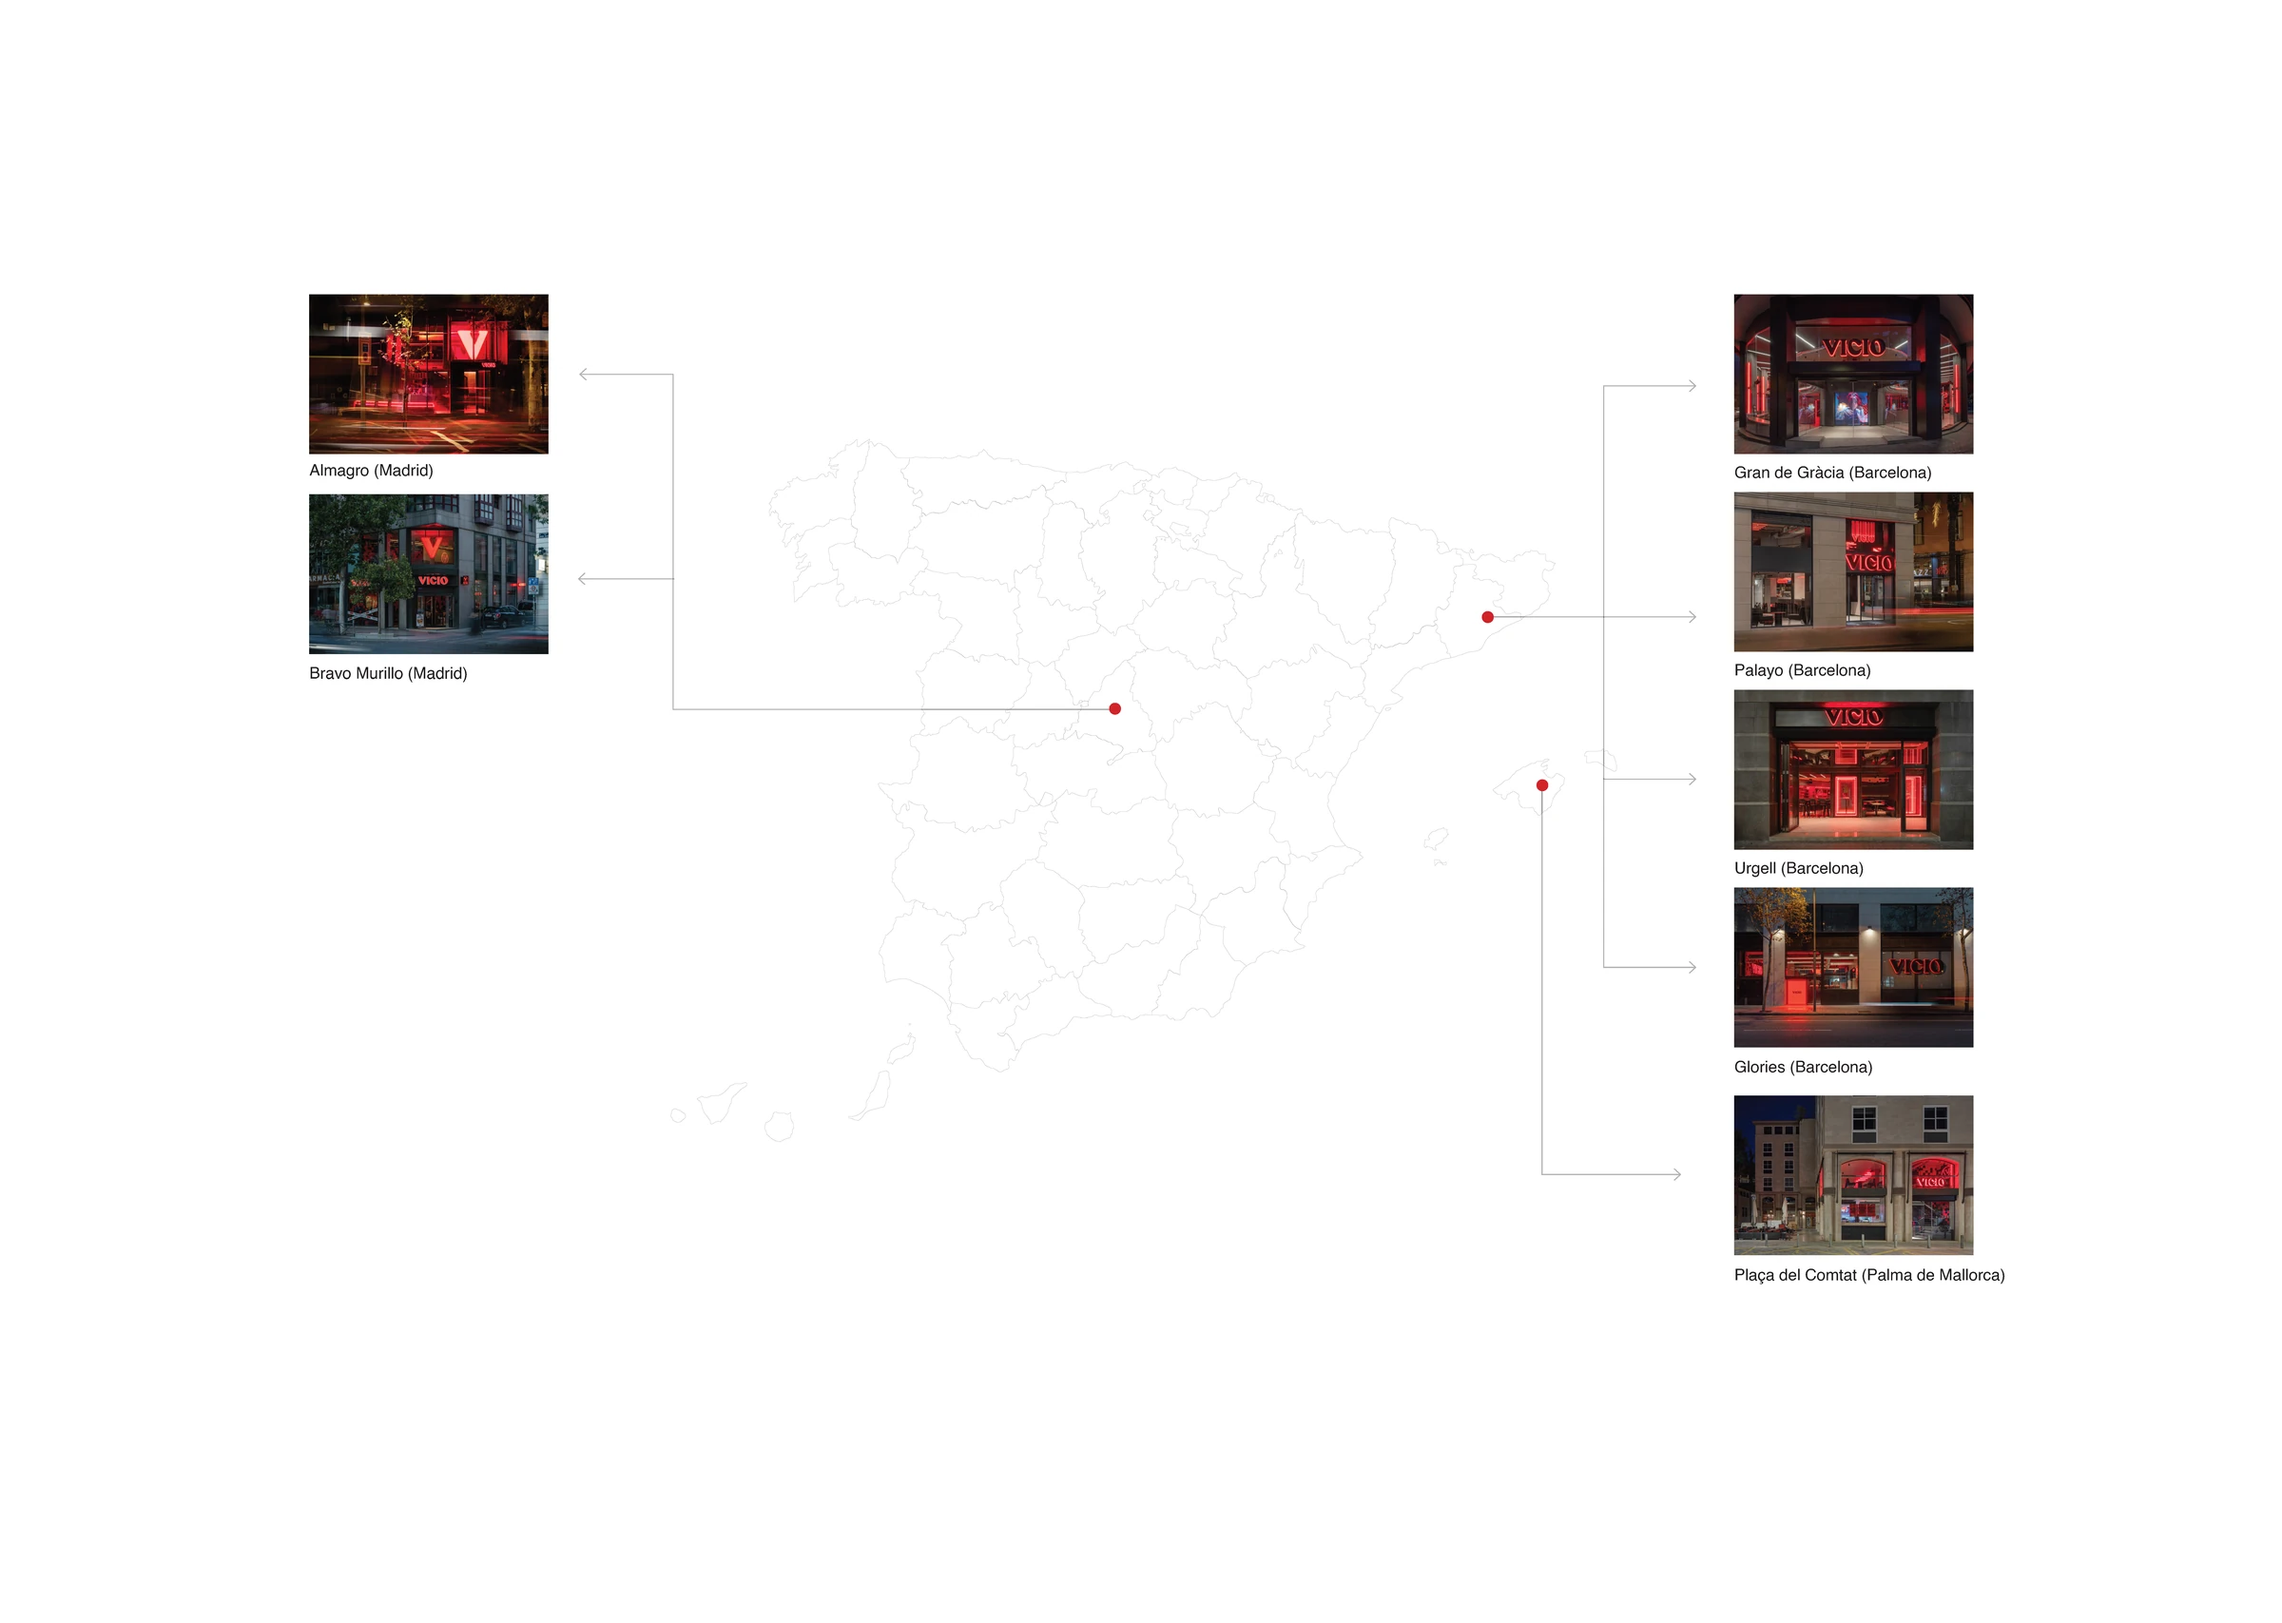
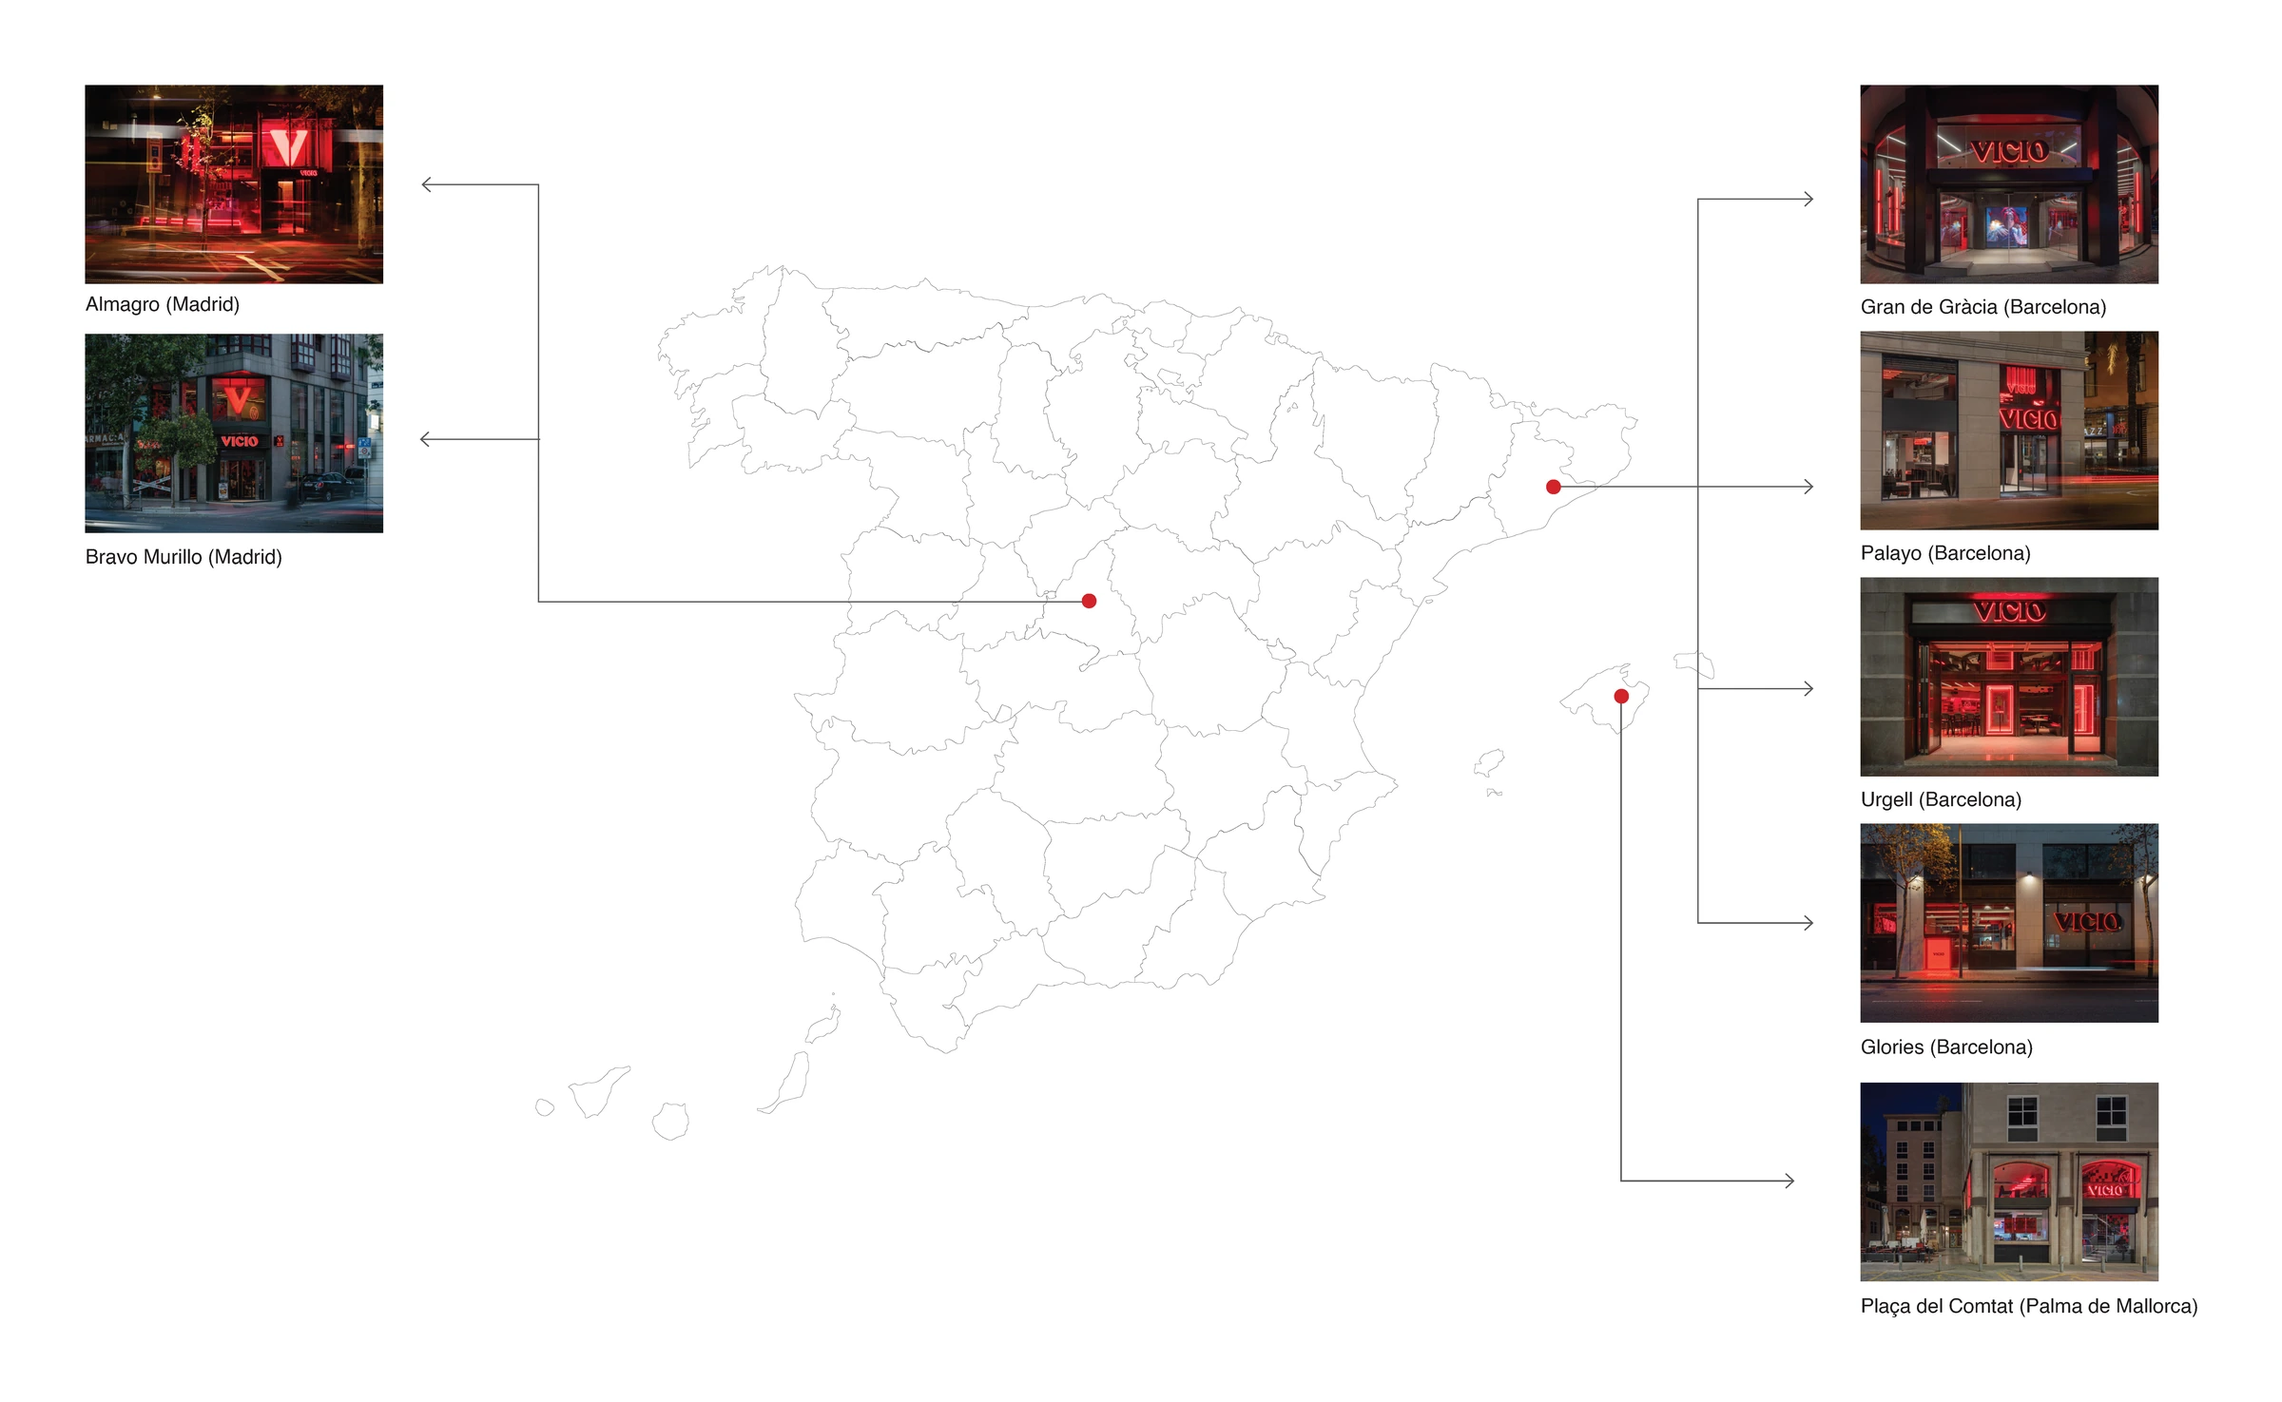
Vicio Almagro: mappa più leggibile
Contorni della mappa e linee di collegamento scuriti, margini bianchi ridotti.

Claude-Session: https://claude.ai/code/session_01TRhswTrZFGADrrg8FJZfGR

diff --git a/foto.js b/foto.js
@@ -1001,8 +1001,8 @@ window.ERFOTO = {
 "foto/02_urban/31_escalera-mirador-vela/01.webp?v=c436347f",
 "foto/02_urban/31_escalera-mirador-vela/02.webp?v=49d08d4e",
 "foto/02_urban/31_escalera-mirador-vela/03.webp?v=c783ad05",
-"foto/02_urban/31_escalera-mirador-vela/04.webp?v=b86711e7",
 "foto/02_urban/31_escalera-mirador-vela/4.webp?v=0464a882",
+"foto/02_urban/31_escalera-mirador-vela/04.webp?v=b86711e7",
 "foto/02_urban/31_escalera-mirador-vela/5.webp?v=26f4d0bf",
 "foto/02_urban/31_escalera-mirador-vela/6.webp?v=e1257b0b",
 "foto/02_urban/31_escalera-mirador-vela/12.webp?v=1ea32de6",
@@ -1157,8 +1157,8 @@ window.ERFOTO = {
 "interior/alkimia": {
 "f": [
 "foto/03_interior/02_alkimia/01.webp?v=76c5ec7d",
-"foto/03_interior/02_alkimia/2.webp?v=a1983d74",
 "foto/03_interior/02_alkimia/02.webp?v=d253546f",
+"foto/03_interior/02_alkimia/2.webp?v=a1983d74",
 "foto/03_interior/02_alkimia/03.webp?v=a00ae0ea",
 "foto/03_interior/02_alkimia/04.webp?v=76707a7a",
 "foto/03_interior/02_alkimia/5.webp?v=e6098661",
@@ -1303,7 +1303,7 @@ window.ERFOTO = {
 "foto/03_interior/06_vicio-almagro/01.webp?v=9f485e9e",
 "foto/03_interior/06_vicio-almagro/03.webp?v=704c6504",
 "foto/03_interior/06_vicio-almagro/04.webp?v=2be5228b",
-"foto/03_interior/06_vicio-almagro/mappa VICIO e PresentedBy_Página_1.webp?v=45f7b460"
+"foto/03_interior/06_vicio-almagro/mappa VICIO e PresentedBy_Página_1.webp?v=1151edcc"
 ],
 "x": {
 "title": "Vicio Almagro",
@@ -1335,8 +1335,8 @@ window.ERFOTO = {
 "interior/ham-on-wheels": {
 "f": [
 "foto/03_interior/07_ham-on-wheels/01.webp?v=ee4e7d49",
-"foto/03_interior/07_ham-on-wheels/002.webp?v=8e9bd001",
 "foto/03_interior/07_ham-on-wheels/02.webp?v=eef5d0a7",
+"foto/03_interior/07_ham-on-wheels/002.webp?v=8e9bd001",
 "foto/03_interior/07_ham-on-wheels/03.webp?v=ceb742d6",
 "foto/03_interior/07_ham-on-wheels/046i.webp?v=d06676d6"
 ],
@@ -1860,10 +1860,10 @@ window.ERFOTO = {
 },
 "interior/presentedby-x-doha-design-district": {
 "f": [
-"foto/03_interior/22_presentedby-x-doha-design-district/1.webp?v=fdc5e369",
 "foto/03_interior/22_presentedby-x-doha-design-district/01.webp?v=df7cc8e6",
-"foto/03_interior/22_presentedby-x-doha-design-district/2.webp?v=88954a9e",
+"foto/03_interior/22_presentedby-x-doha-design-district/1.webp?v=fdc5e369",
 "foto/03_interior/22_presentedby-x-doha-design-district/02.webp?v=e351f956",
+"foto/03_interior/22_presentedby-x-doha-design-district/2.webp?v=88954a9e",
 "foto/03_interior/22_presentedby-x-doha-design-district/03.webp?v=78924f52",
 "foto/03_interior/22_presentedby-x-doha-design-district/04.webp?v=ab97eb93",
 "foto/03_interior/22_presentedby-x-doha-design-district/10.webp?v=9c6dd30c"
@@ -1893,7 +1893,7 @@ window.ERFOTO = {
 ],
 "body": "<p>Presentedby Doha redefines sneaker retail through an immersive environment inspired by Qatar’s dunes and urban streetwear culture. Dynamic LED screens, algorithmic metal forms, interactive lighting, and holographic displays create a constantly evolving experience. The flagship blends technology, digital art, and customization, transforming shopping into a personalized journey for sneaker and streetwear enthusiasts.</p><p>The experience starts before entering, as the façade becomes a digital landscape that captures attention and supports content creation. Inspired by Qatar’s shifting sand dunes, the interior works like an exhibition space showcasing rare trainers, collaborations, and collector pieces. Algorithmically cut metal blades wrap the space, forming a fluid tech landscape where products appear embedded in motion. Light, mapping, and responsive surfaces create a changing atmosphere, while a dedicated immersive room uses holographic fans to present selected sneakers as coveted icons.</p>"
 },
-"t": "miniature/03_interior/22_presentedby-x-doha-design-district.webp?v=d59984ba"
+"t": "miniature/03_interior/22_presentedby-x-doha-design-district.webp?v=3e5ffee4"
 },
 "interior/presentedby-x-riyadh": {
 "f": [
